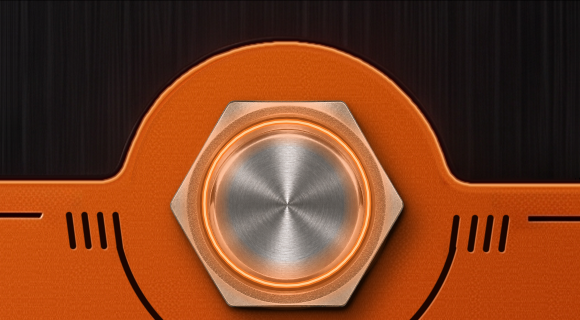
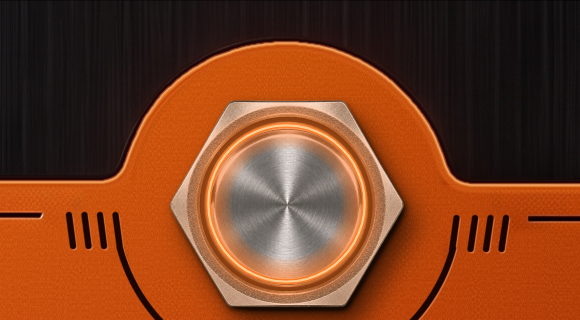
Anneau du footswitch resserre de 2 px de plus
Claude-Session: https://claude.ai/code/session_01LDrijRrDANE63jfdma9h8B

diff --git a/Layout.h b/Layout.h
@@ -7,7 +7,7 @@ namespace layout
     const juce::Point<float> knobPos { 307.25f, 172.25f }; const float knobR = 107.75f;   // axe du potard SPEED
     const juce::Rectangle<float> knobBox { 173.35f, 38.35f, 267.81f, 267.81f };   // composant nh::Knob (calques 1024 px)
     const juce::Point<float> fsPos { 308.25f, 651.75f }; const float footR = 39.02f;
-    const float fsRingR = 41.04f, fsRingW = 2.63f;   // anneau lumineux dans la gorge du footswitch (dessin d'Octopus)
+    const float fsRingR = 39.04f, fsRingW = 2.63f;   // anneau lumineux dans la gorge du footswitch (dessin d'Octopus)
     const juce::Point<float> syncPos { 451.00f, 276.00f }; const float syncR = 13.00f;
     const juce::Rectangle<float> phaseBox { 172.50f, 376.00f, 272.50f, 105.00f };
     const juce::Rectangle<float> presetRect { 108.75f, 511.00f, 400.00f, 38.00f };   // pastille presets / ligne d'etat (400 x 38)

diff --git a/tools/make_art.py b/tools/make_art.py
@@ -716,7 +716,7 @@ def write_layout(info):
                     u(KNOB_RS) * LAYER / KNOB_LR, u(KNOB_RS) * LAYER / KNOB_LR],
         'ticks': small_ticks(),
         'fs': [u(FS_C[0]), u(FS_C[1]), u(info['fsBtnR']), u(FS_FLATS / 2)],
-        'fsRing': [u(info['fsBtnR']) * 40.45 / 37.54 - 1.0, u(info['fsBtnR']) * 2.53 / 37.54],   # resserre de 1 px vers l'interieur (demande)
+        'fsRing': [u(info['fsBtnR']) * 40.45 / 37.54 - 3.0, u(info['fsBtnR']) * 2.53 / 37.54],   # resserre de 3 px vers l'interieur (demandes)
         'sync': [u(SYNC_C[0]), u(SYNC_C[1]), u(SYNC_R1 + 4)],
         'phaseBox': [u(PHASE_BOX[0]), u(PHASE_BOX[1]), u(PHASE_BOX[2] - PHASE_BOX[0]), u(PHASE_BOX[3] - PHASE_BOX[1])],
         'preset': [u(PRESET[0]), u(PRESET[1]), u(PRESET[2]), u(PRESET[3])],
